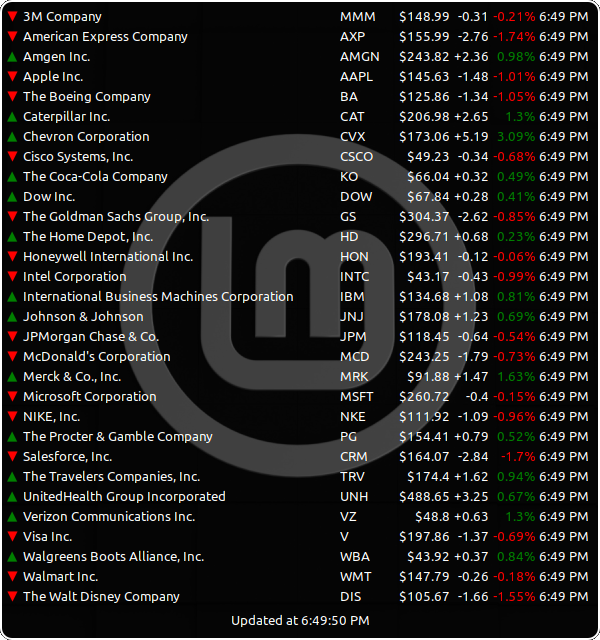
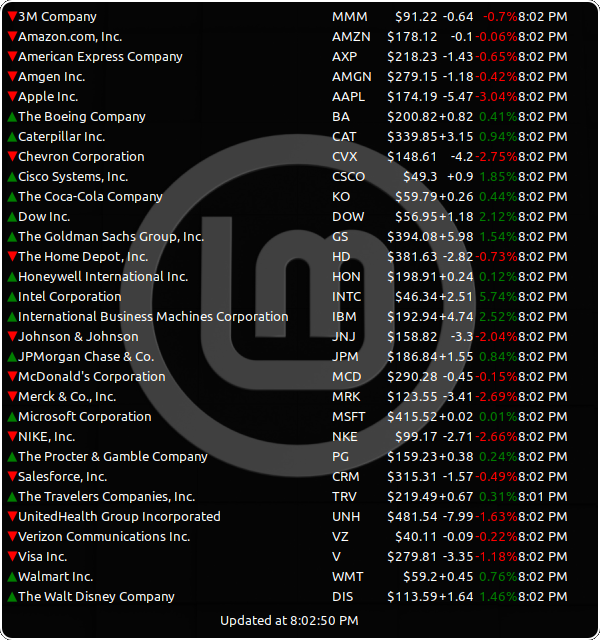
update DOW 30 component symbols

Changed region(s): [[0.36, 0.0, 0.99, 1.0], [0.0, 0.0, 0.48, 0.9375]]

diff --git a/README.md b/README.md
@@ -44,6 +44,7 @@ Features:
 Bugfixes:
 
 - handle HTTP response status codes not supported by libsoup3
+- update DOW 30 component symbols
 
 ### 0.9.0 - August 28, 2023
 
